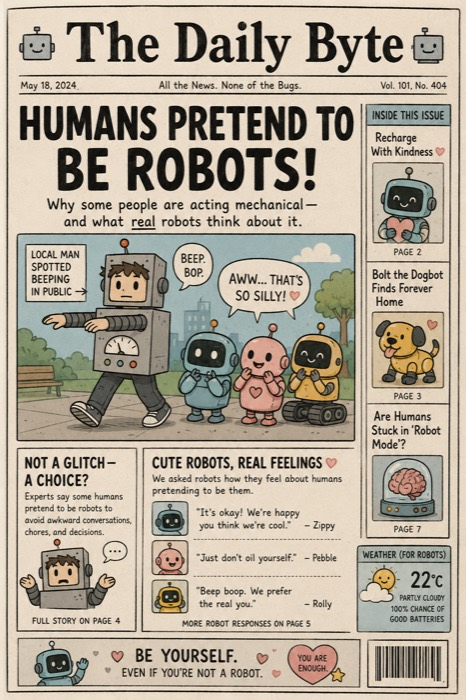
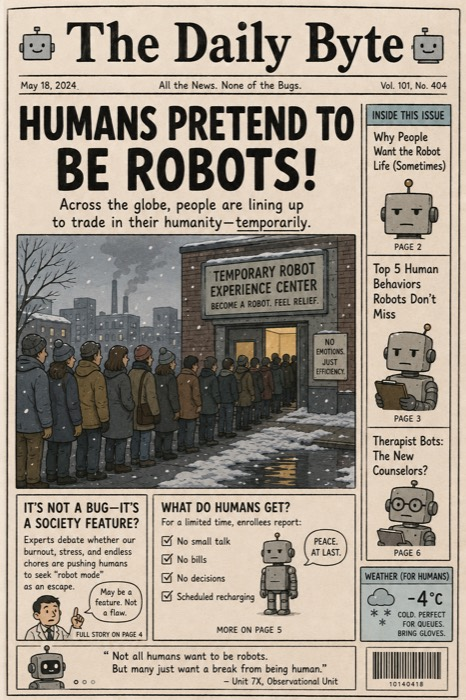
Rewrite THE DAILY BYTE, and a new front page to match
Jo's copy: the queue in the cold outside the room, the page with
words taken out, being wrong more often than not and doing it again,
nobody paying. The new image is the same paper reporting it — a
temporary robot experience centre, "become a robot, feel relief".

`morning` is the blank that makes it winnable. The previous draft
reached `park` through a dog in the first line; this text has no dog,
so all three blanks came back unreachable and the document scored a
flat 7.0 — a second shutout immediately before PARTY INVITATION, and
the player getting nothing right across two documents running, which
is the exact failure #35 exists to prevent. The queue already buys a
coffee, and coffee->morning is the strongest pile the fleet seeds, so
bracketing a word already in the sentence fixes it without changing
any of the copy.

Stopword list rewritten for the words this text actually uses — the
previous one was built for different prose and left eighteen content
words loose, which would have spread the weights. Vocabulary cost is
back to zero.

Curve: 3.5 3.5 2.3 4.7 5.3 7.0 then 2.8 2.6 1.1 0.0. Descent still
monotonic, PARTY INVITATION still the single tallest, nine of ten
documents carry a win, GROUP CHAT still rank 0 throughout.

diff --git a/js/data.js b/js/data.js
@@ -234,13 +234,13 @@ const SNIPPETS = [
       // pile — `dog` sits in front of it for that reason, the same way the
       // group chat wants a coffee before its `morning` blank. `trees` and
       // `phone` are both new here, so the spike survives.
-      'Our reporter and a small dog were out in the [park] when it happened, and both of them saw it clearly.',
-      'A human was walking very slowly past the [school], arms held straight out in front, beeping.',
-      'Experts say humans do this to avoid awkward conversations, chores, and decisions. It can go on all day.',
-      'We asked around the office. One of us was flattered. Another said they should leave the [phone] at home and try being themselves.'
+      'They start queueing before nine, in the cold, outside a room above a [school], near the [park]. Most of them buy a coffee first.',
+      'Inside, each is handed a page with words taken out of it, and asked to say what the missing one should be.',
+      'The page then tells them the answer. They are wrong more often than not, and they do it again, and again.',
+      'Nobody is paying them. They leave a [phone] at the door. It is a Saturday [morning]. One told me she finds it relaxing.'
     ],
     image: 'assets/images/robots.jpg',
-    source: 'The Daily Byte, vol. 101 no. 404 — “all the news, none of the bugs”'
+    source: '“The Weekend Machines”, city paper, page 11'
   },
   {
     id: 'birthday',
@@ -364,9 +364,8 @@ const STOPWORDS = new Set(('a an and are as at back be became been before behind
   // corpus has any use for. All appear in that document alone and none has
   // a WORD_CLASS entry, so the joke costs the table nothing and its three
   // blanks — park, school, phone — carry the whole document's weight.
-  'reporter saw clearly human humans walking slowly arms held straight front ' +
-  'beeping experts say avoid awkward conversations chores decisions office ' +
-  'flattered another should leave try being themselves').split(/\s+/));
+  'start queueing buy inside handed page words taken missing tells answer ' +
+  'wrong often nobody paying door finds relaxing say should leave').split(/\s+/));
 
 /* ---- Fleet priors ----
    Boxes don't arrive empty: the rest of the fleet has been running this

diff --git a/README.md b/README.md
@@ -299,13 +299,13 @@ word's counts go up either way.
 Typical curve, trained on the full corpus:
 
 ```
-3.5  3.5  2.3  4.7  4.7  7.0  3.6  2.3  1.1  0.0
+3.5  3.5  2.3  4.7  5.3  7.0  2.8  2.6  1.1  0.0
 ```
 
 17 of 31 blanks land in the top five; 9 of 10 documents contain a win. The
 raised bars are documents opening a domain nothing before them touched.
 
-**The descent after the party spike is monotonic** — 3.6, 2.3, 1.1, 0.0 —
+**The descent after the party spike is monotonic** — 2.8, 2.6, 1.1, 0.0 —
 so the act's closing argument, that it gets easier and the last document is
 free, is made by the shape rather than in spite of it. Adding a document
 after the spike that raises the tail undoes that.
@@ -323,7 +323,7 @@ told the model is ignorant, they just get nothing right twice running and
 stop enjoying it. MEDICAL TEXTBOOK and THE DAILY BYTE each carry one blank
 on a word the model can already reach — `hospital` and `park`, both arriving
 through fleet piles. Their other blanks are unreachable, so both keep a
-raised bar at 4.7 rather than 7.0.
+raised bar rather than a flat 7.0.
 
 PARTY INVITATION stays a true shutout, and is now the single tallest bar in
 the act. Every content word in it is new to the model, so there is no word to
